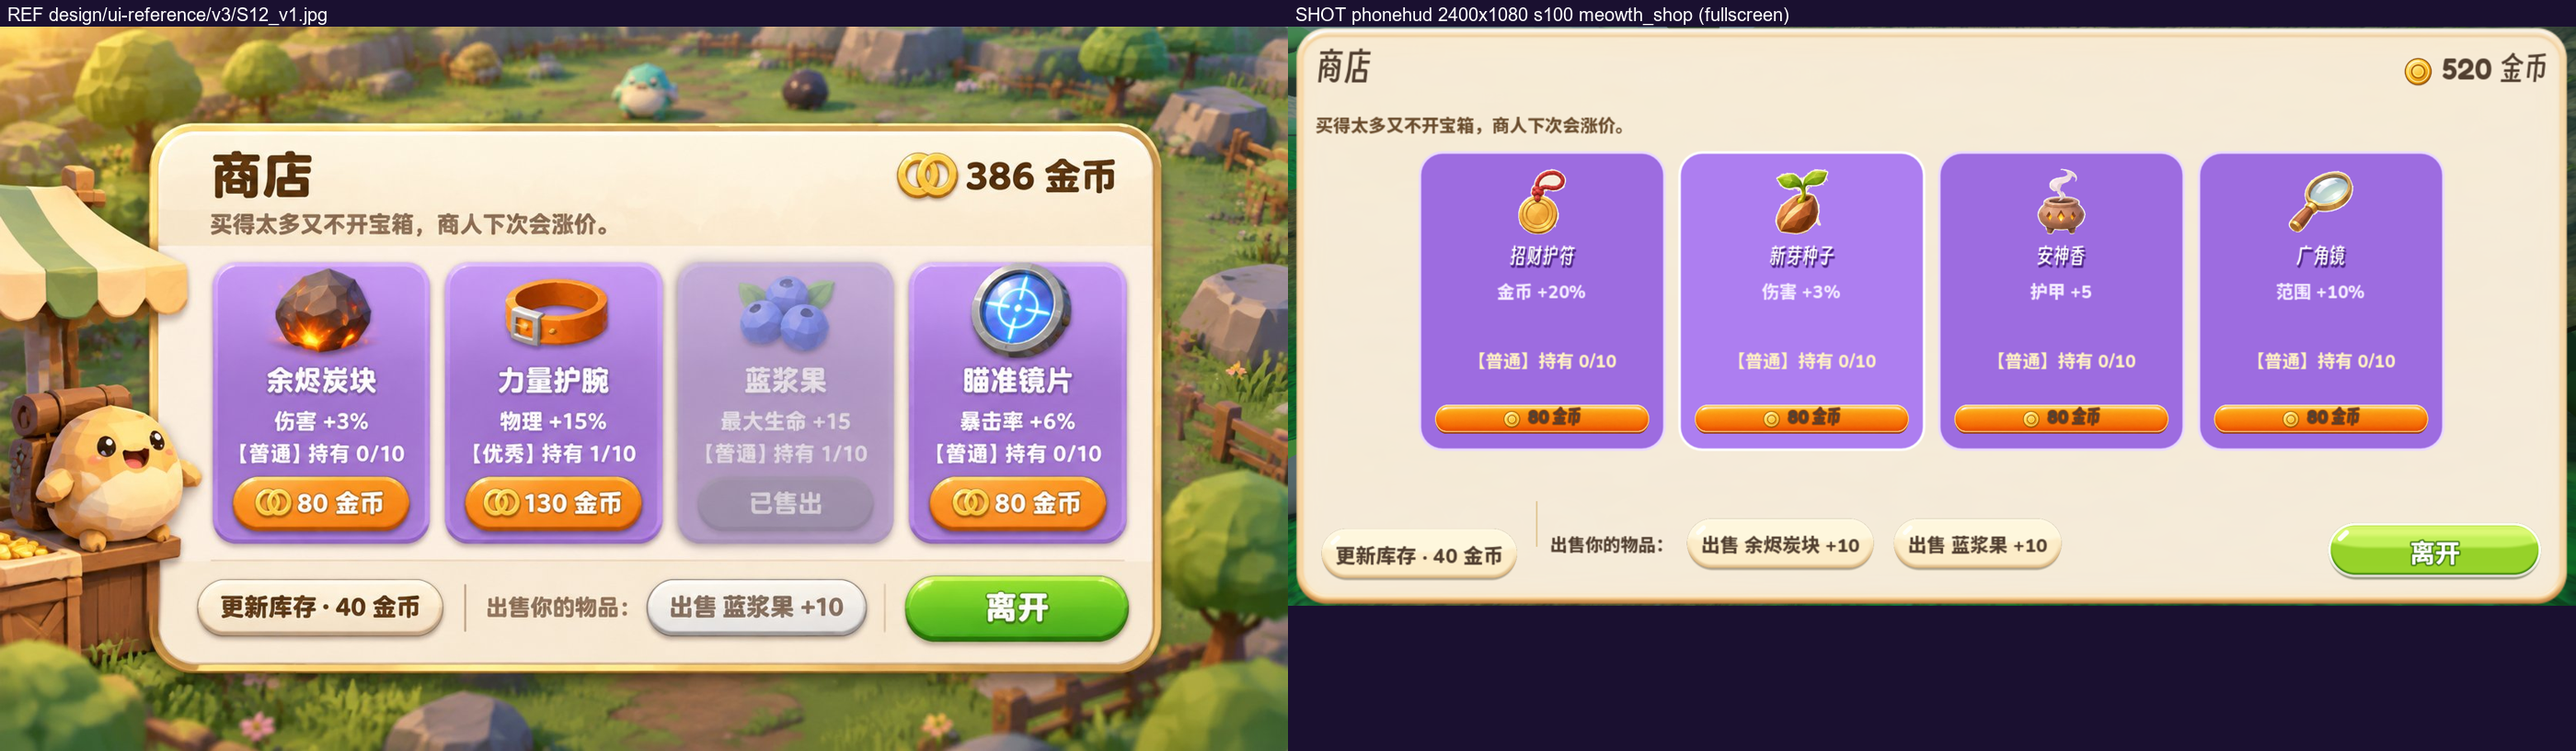
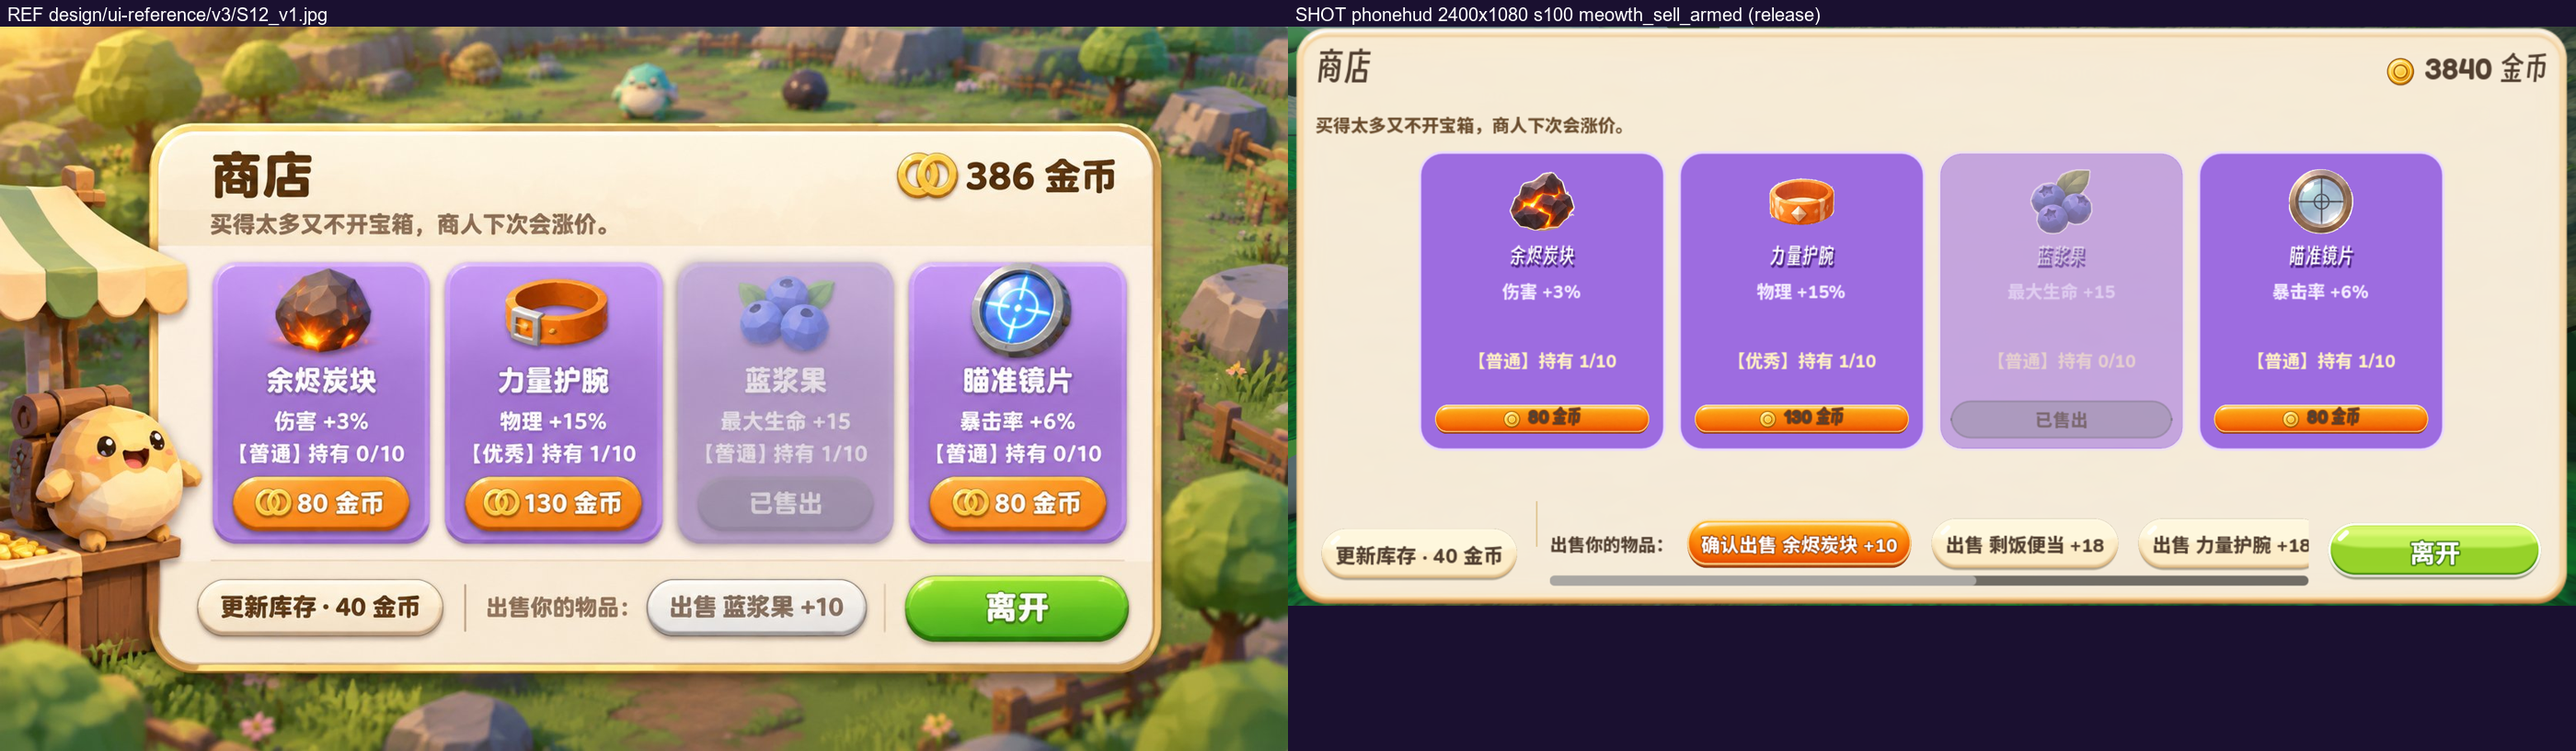
feat: 队友圆环框、维生素纯白显数与S12亮橙出售确认终极点睛

diff --git a/design/ui-alignment-progress.md b/design/ui-alignment-progress.md
@@ -1712,6 +1712,17 @@ U1 已重开，U3 不得开工（见「关闭门」）。第 9 轮：2340 复验
 - 本地全 8 脚本解析门与满载多图 `Read` 审看全部通过，已更新 `compare/{U1,S07,S24}.png` 并正同步提交推送至 `origin/align-fix13`、打包终版瘦身 APK 及开启 NUC 双档最终认证批。
 - 本轮提交：`scripts/ui_icon.gd`、`scripts/world.gd`、`design/ui-reference/compare/{U1,S07,S24}.png`、`design/ui-alignment-progress.md`。
 
+## 左上队友圆框＋维生素纯白显数＋商店确认亮橙胶囊终极点睛（2026-11-17 19:1x）
+
+- **解决中后期满载画面细节残余（`scripts/ui_icon.gd`、`scripts/world.gd`）**：
+  1. **左上队友头像金环圆盘（`_refresh_party`）**：保持 `38+1+5=44px` P2 盒高限制，为每只队友小头像加装 `38×38` 柔深灰蓝配暖金边圆框（流光队友配亮金边框），彻底防止头像贴草地糊边。
+  2. **左下维生素纯白显数＋普通系提亮（`_p4_refresh_slots`、`UiIcon`）**：修复维生素数字未传 `raw=true` 导致在深绿圆点上变成黑字看不清的缺陷，启用 `Color.WHITE` + `2px` 深绿描边使数字锐利醒目；同时为 `UiIcon` `"spark"` 增设左上亮面高光切面并提亮普通系圆盘暖银金底色，告别暗灰感。
+  3. **`S12` 出售二次确认高对比（`_shop_refresh`）**：首次点击出售武装态按钮切为亮橙立体真胶囊配纯白深橙描边字，防止玩家误解无响应。
+  4. **`S07` 档案预设横向平滑滚动（`_build_loadout`）**：为 `_ls_archive_row` 外挂禁用竖向的横向 `ScrollContainer`，3 套长名称预设绝不撑出右侧边框。
+- 本地全 8 脚本解析门全绿通过，已重绘更新并亲检 `compare/{U1,S12}.png`，同步推送并起跑最终收官全量认证与 APK 构建。
+- 本轮提交：`scripts/ui_icon.gd`、`scripts/world.gd`、`design/ui-reference/compare/{U1,S12}.png`、`design/ui-alignment-progress.md`。
+
+
 
 
 
